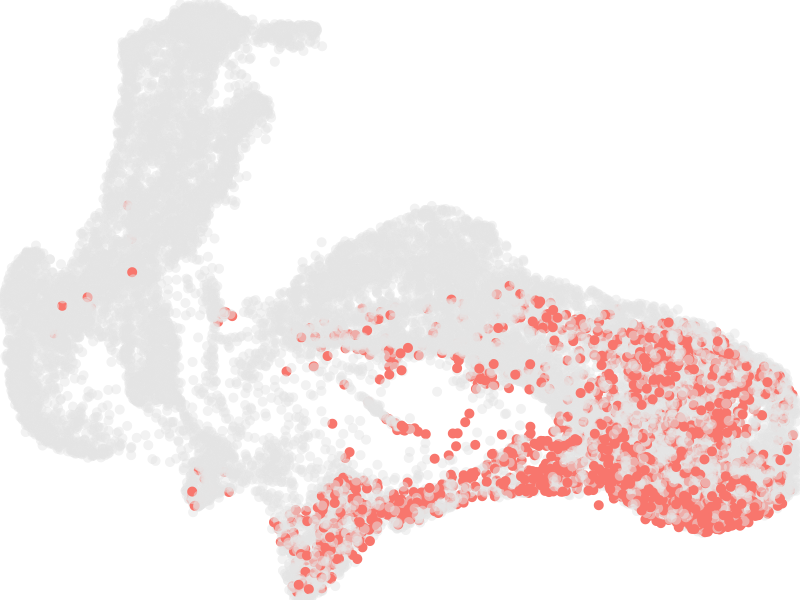
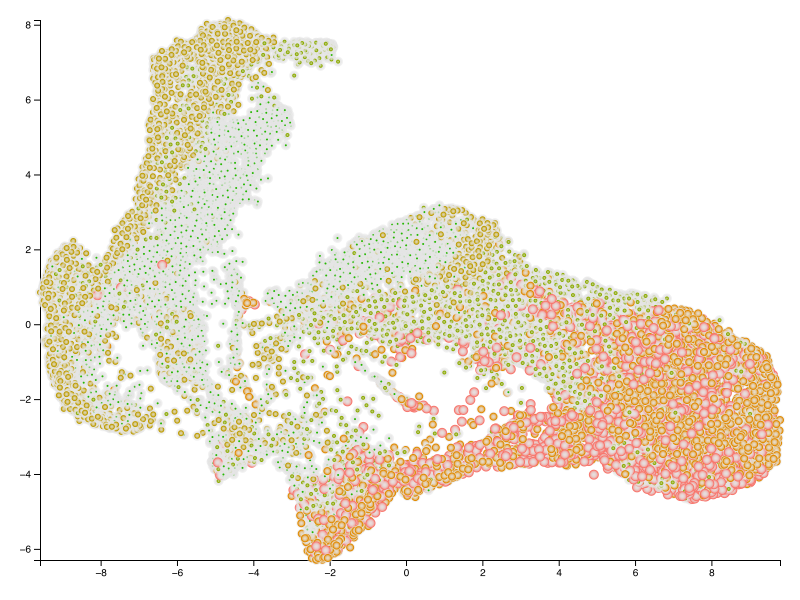
support all nodes

diff --git a/generate-scatter-plot.js b/generate-scatter-plot.js
@@ -13,6 +13,14 @@ const tsvFiles = fs
 // SVGの設定
 const width = 800;
 const height = 600;
+const margin = { top: 20, right: 20, bottom: 40, left: 40 };
+const colorColumns = [
+  "color_A951",
+  "color_A952",
+  "color_A953",
+  "color_A954",
+  "color_A955",
+]; // 色列のリスト
 
 tsvFiles.forEach((file) => {
   // TSVファイルを読み込む
@@ -30,23 +38,35 @@ tsvFiles.forEach((file) => {
   const xScale = d3
     .scaleLinear()
     .domain(d3.extent(data, (d) => +d.UMAP_1))
-    .range([0, width]);
+    .range([margin.left, width - margin.right]);
 
   const yScale = d3
     .scaleLinear()
     .domain(d3.extent(data, (d) => +d.UMAP_2))
-    .range([height, 0]);
+    .range([height - margin.bottom, margin.top]);
 
-  // 散布図を描画（カラーコードを反映）
+  // 軸の生成
+  const xAxis = d3.axisBottom(xScale).ticks(10);
+  const yAxis = d3.axisLeft(yScale).ticks(10);
+
+  // X軸とY軸をSVGに追加
   svg
-    .selectAll("circle")
-    .data(data)
-    .enter()
-    .append("circle")
-    .attr("cx", (d) => xScale(+d.UMAP_1))
-    .attr("cy", (d) => yScale(+d.UMAP_2))
-    .attr("r", 5)
-    .attr("fill", (d) => d.color_A951); // ここでカラーコードを適用
+    .append("g")
+    .attr("transform", `translate(0,${height - margin.bottom})`)
+    .call(xAxis);
+  svg.append("g").attr("transform", `translate(${margin.left},0)`).call(yAxis);
+
+  // 各ノードに対して複数の円を描画
+  data.forEach((d) => {
+    colorColumns.forEach((col, index) => {
+      svg
+        .append("circle")
+        .attr("cx", xScale(+d.UMAP_1))
+        .attr("cy", yScale(+d.UMAP_2))
+        .attr("r", 5 - index) // 異なる半径で重なりを防ぐ
+        .attr("fill", d[col]);
+    });
+  });
 
   // SVGを文字列として取得
   const svgString = body.select("svg").node().outerHTML;
